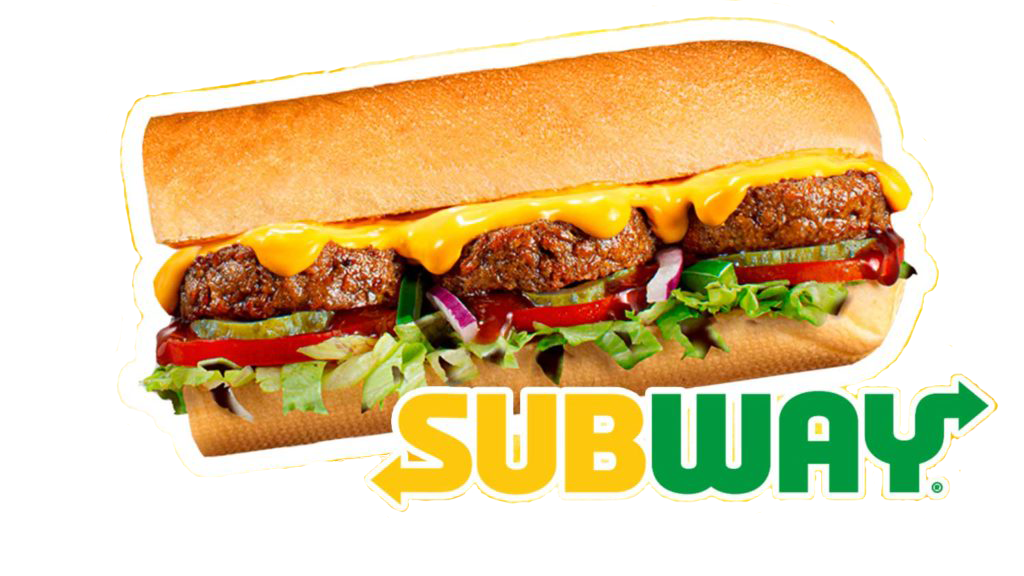
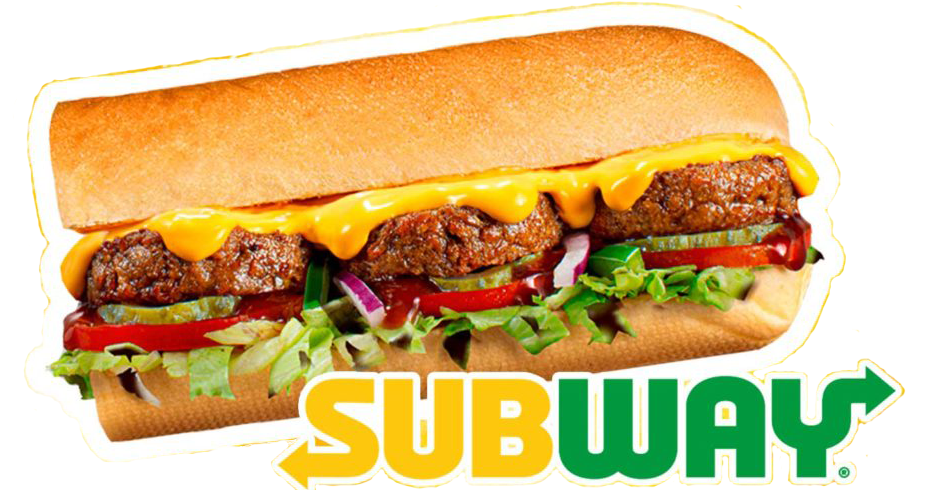
23 01 11

diff --git a/css/sub.css b/css/sub.css
@@ -10,5 +10,57 @@
         margin: auto;
     }
 
- 
+    #sub img {
+        width: 42%;
+        height: 101%;
+        position: absolute;
+        align-content: center;
+        margin: 0% 31% auto;
+    }
+    
+    #sub h2{
+         color: aliceblue;
+         font-size: 52px;
+         position: absolute;
+         bottom: 31%;
+    }
+
+    #sub .no1{
+        left:15%;
+    }
+
+    #sub .sand{
+        right: 9%;
+    }
+   
+    #sub2 .menu {
+        background-color: red;
+        width: 50%;
+        height: 6%;
+        position: absolute;
+        right: 25%;
+    }
+
+    #sub2{
+        width: 100%;
+        background-color: rgb(240, 240, 240);
+        height: 1000px;
+        box-sizing: border-box;
+        position: relative;
+        margin: auto;
+    }
+
+    
+
+    #sub2 article {
+        width: 17%;
+        height: 309px;
+        float: left;
+        margin: 1%;
+        background-color: gold;
+        position: absolute;
+        left: 24%;
+        top: 10%;
+    }
+
 }

diff --git a/sub.html b/sub.html
@@ -50,7 +50,7 @@
             </div>
         </header>
     
-        <script src="http://code.jquery.com/jquery-2.2.3.min.js"></script>
+        
     
         <script>
             $(function () {
@@ -70,11 +70,20 @@
         </script>
     </header>
 
+    
     <div id="sub">
         <img src="img/Sub_Subway.png" alt="">
+        <h2 class="no1">NO.1</h2>
+        <h2 class="sand">Sandwich</h2> 
+              
     </div>
 
-    
+    <div id="sub2">
+        <div class="menu"></div>
+        <article ></article>
+        <article></article>
+        <article></article>
+    </div>
 
 
     <footer>

diff --git a/css/project2_max_599.css b/css/project2_max_599.css
@@ -265,6 +265,7 @@
         flex-wrap: wrap;
         justify-content: space-between;
         align-content: center;
+        overflow: hidden;
 
     }
 
